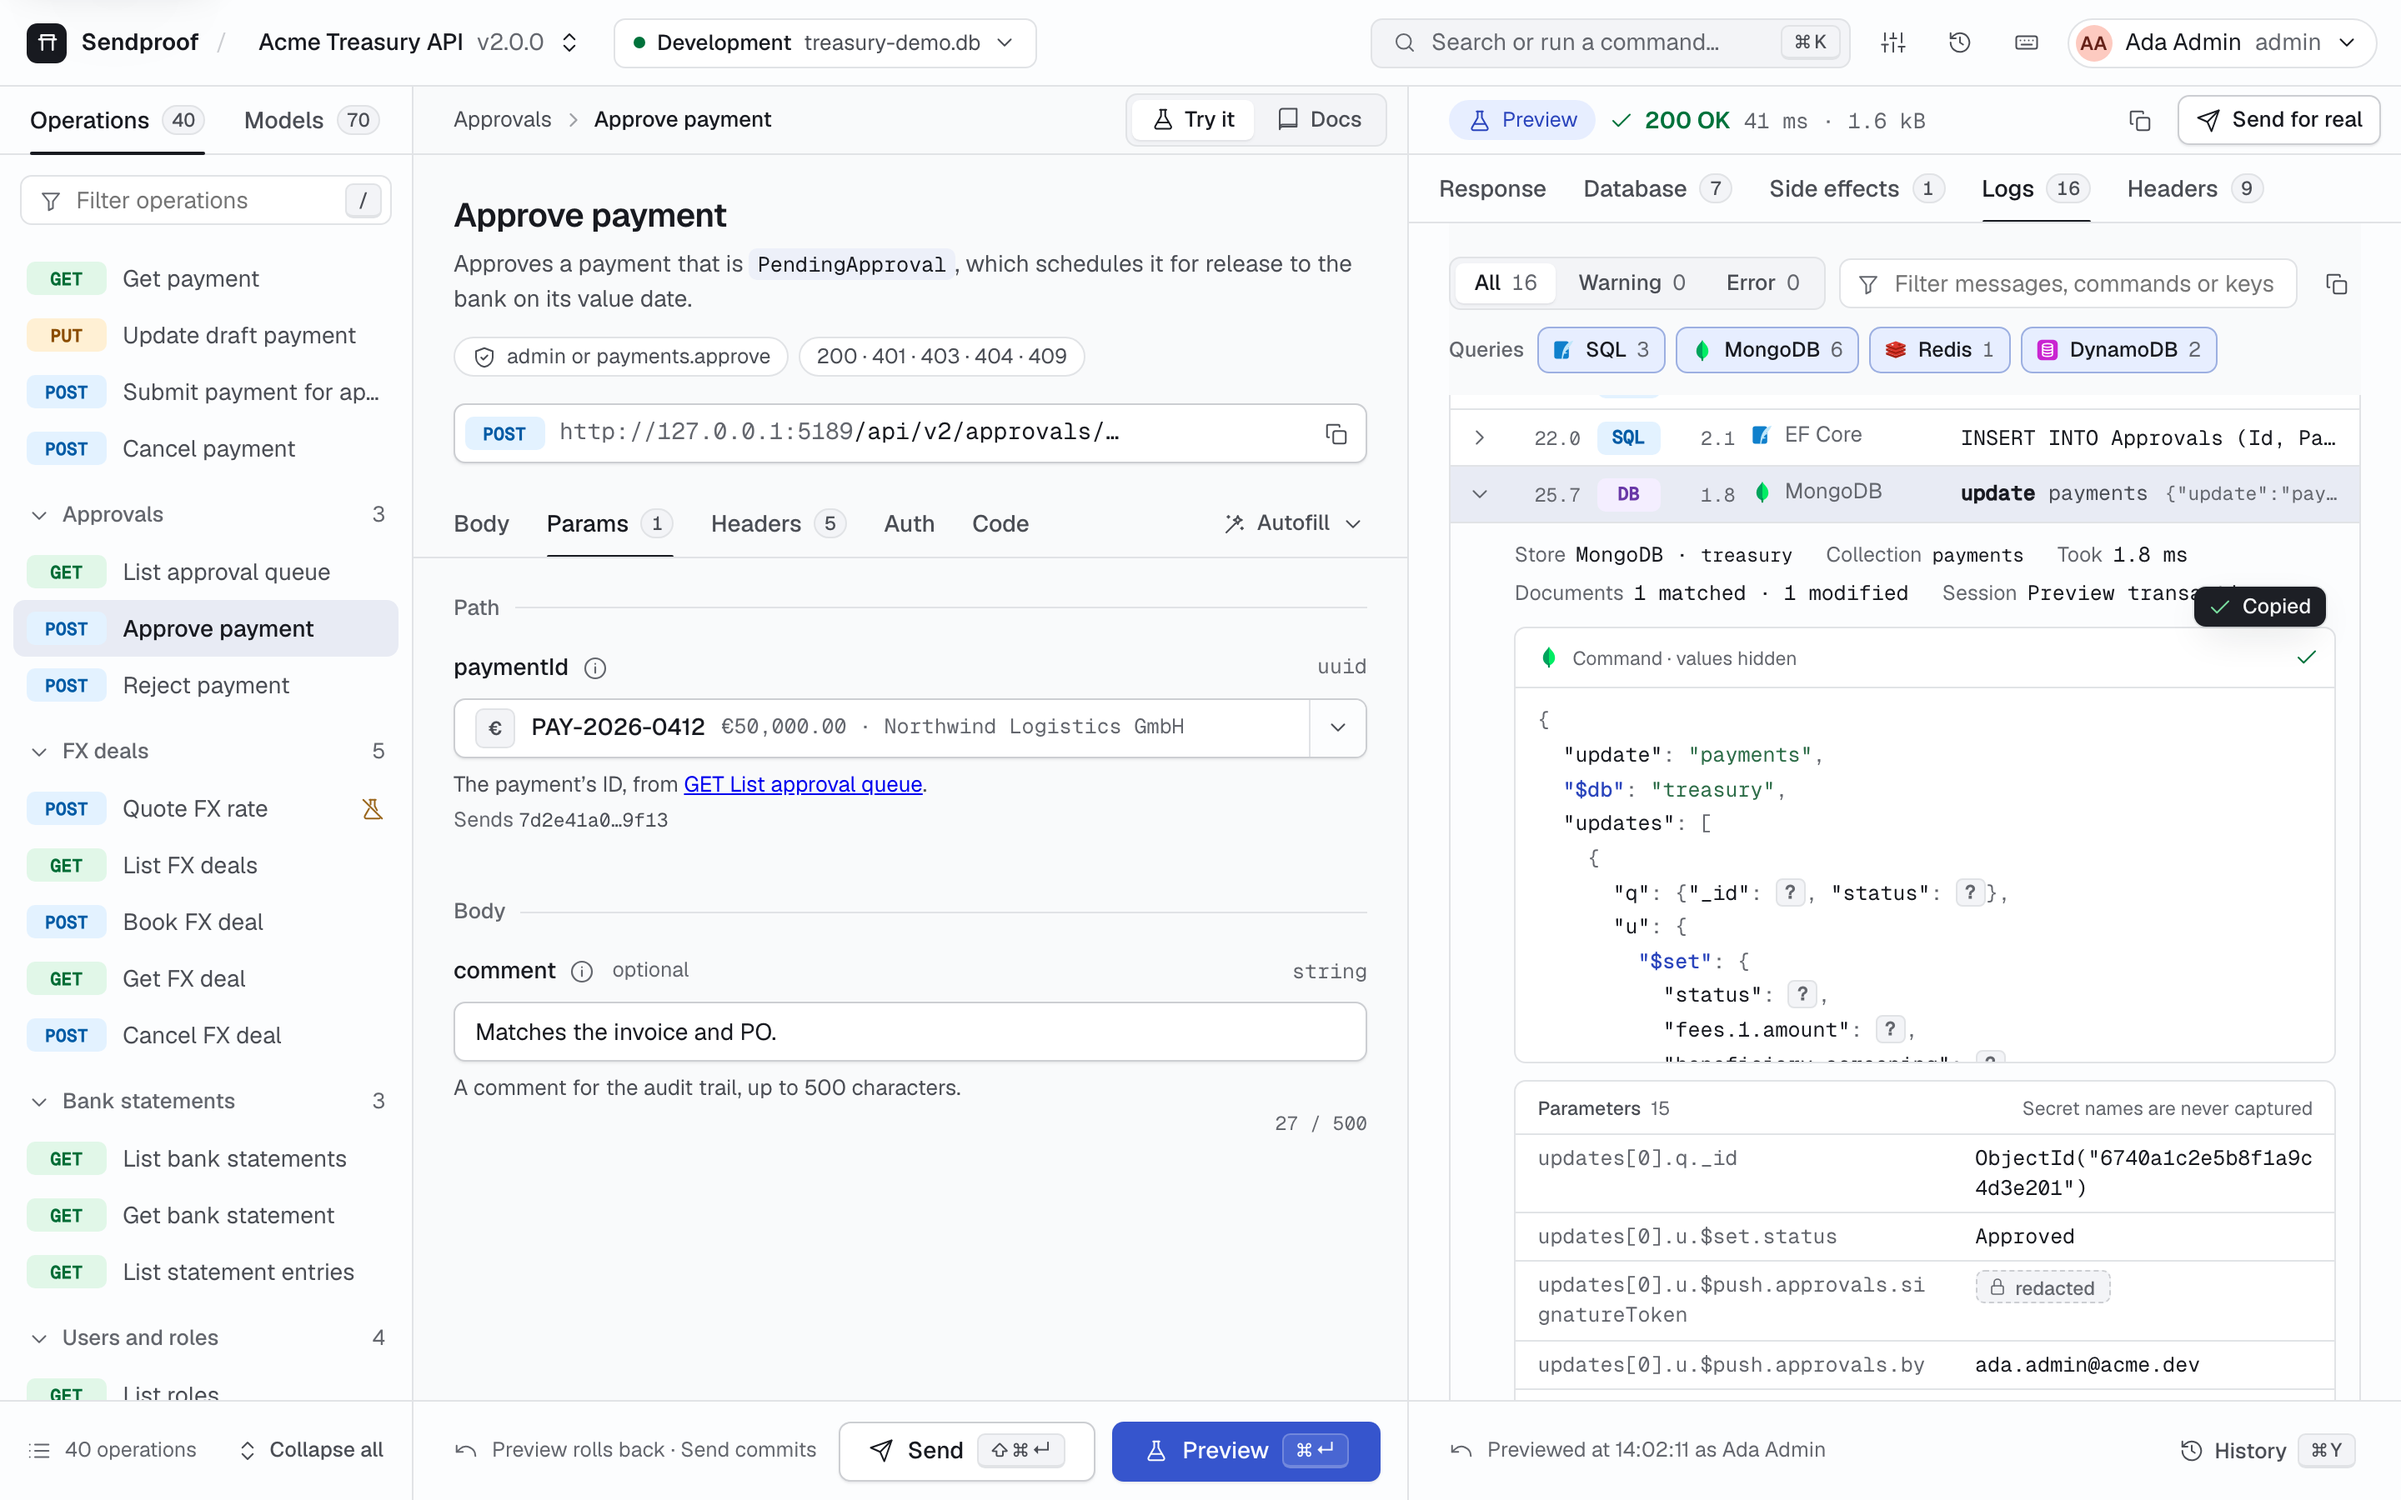
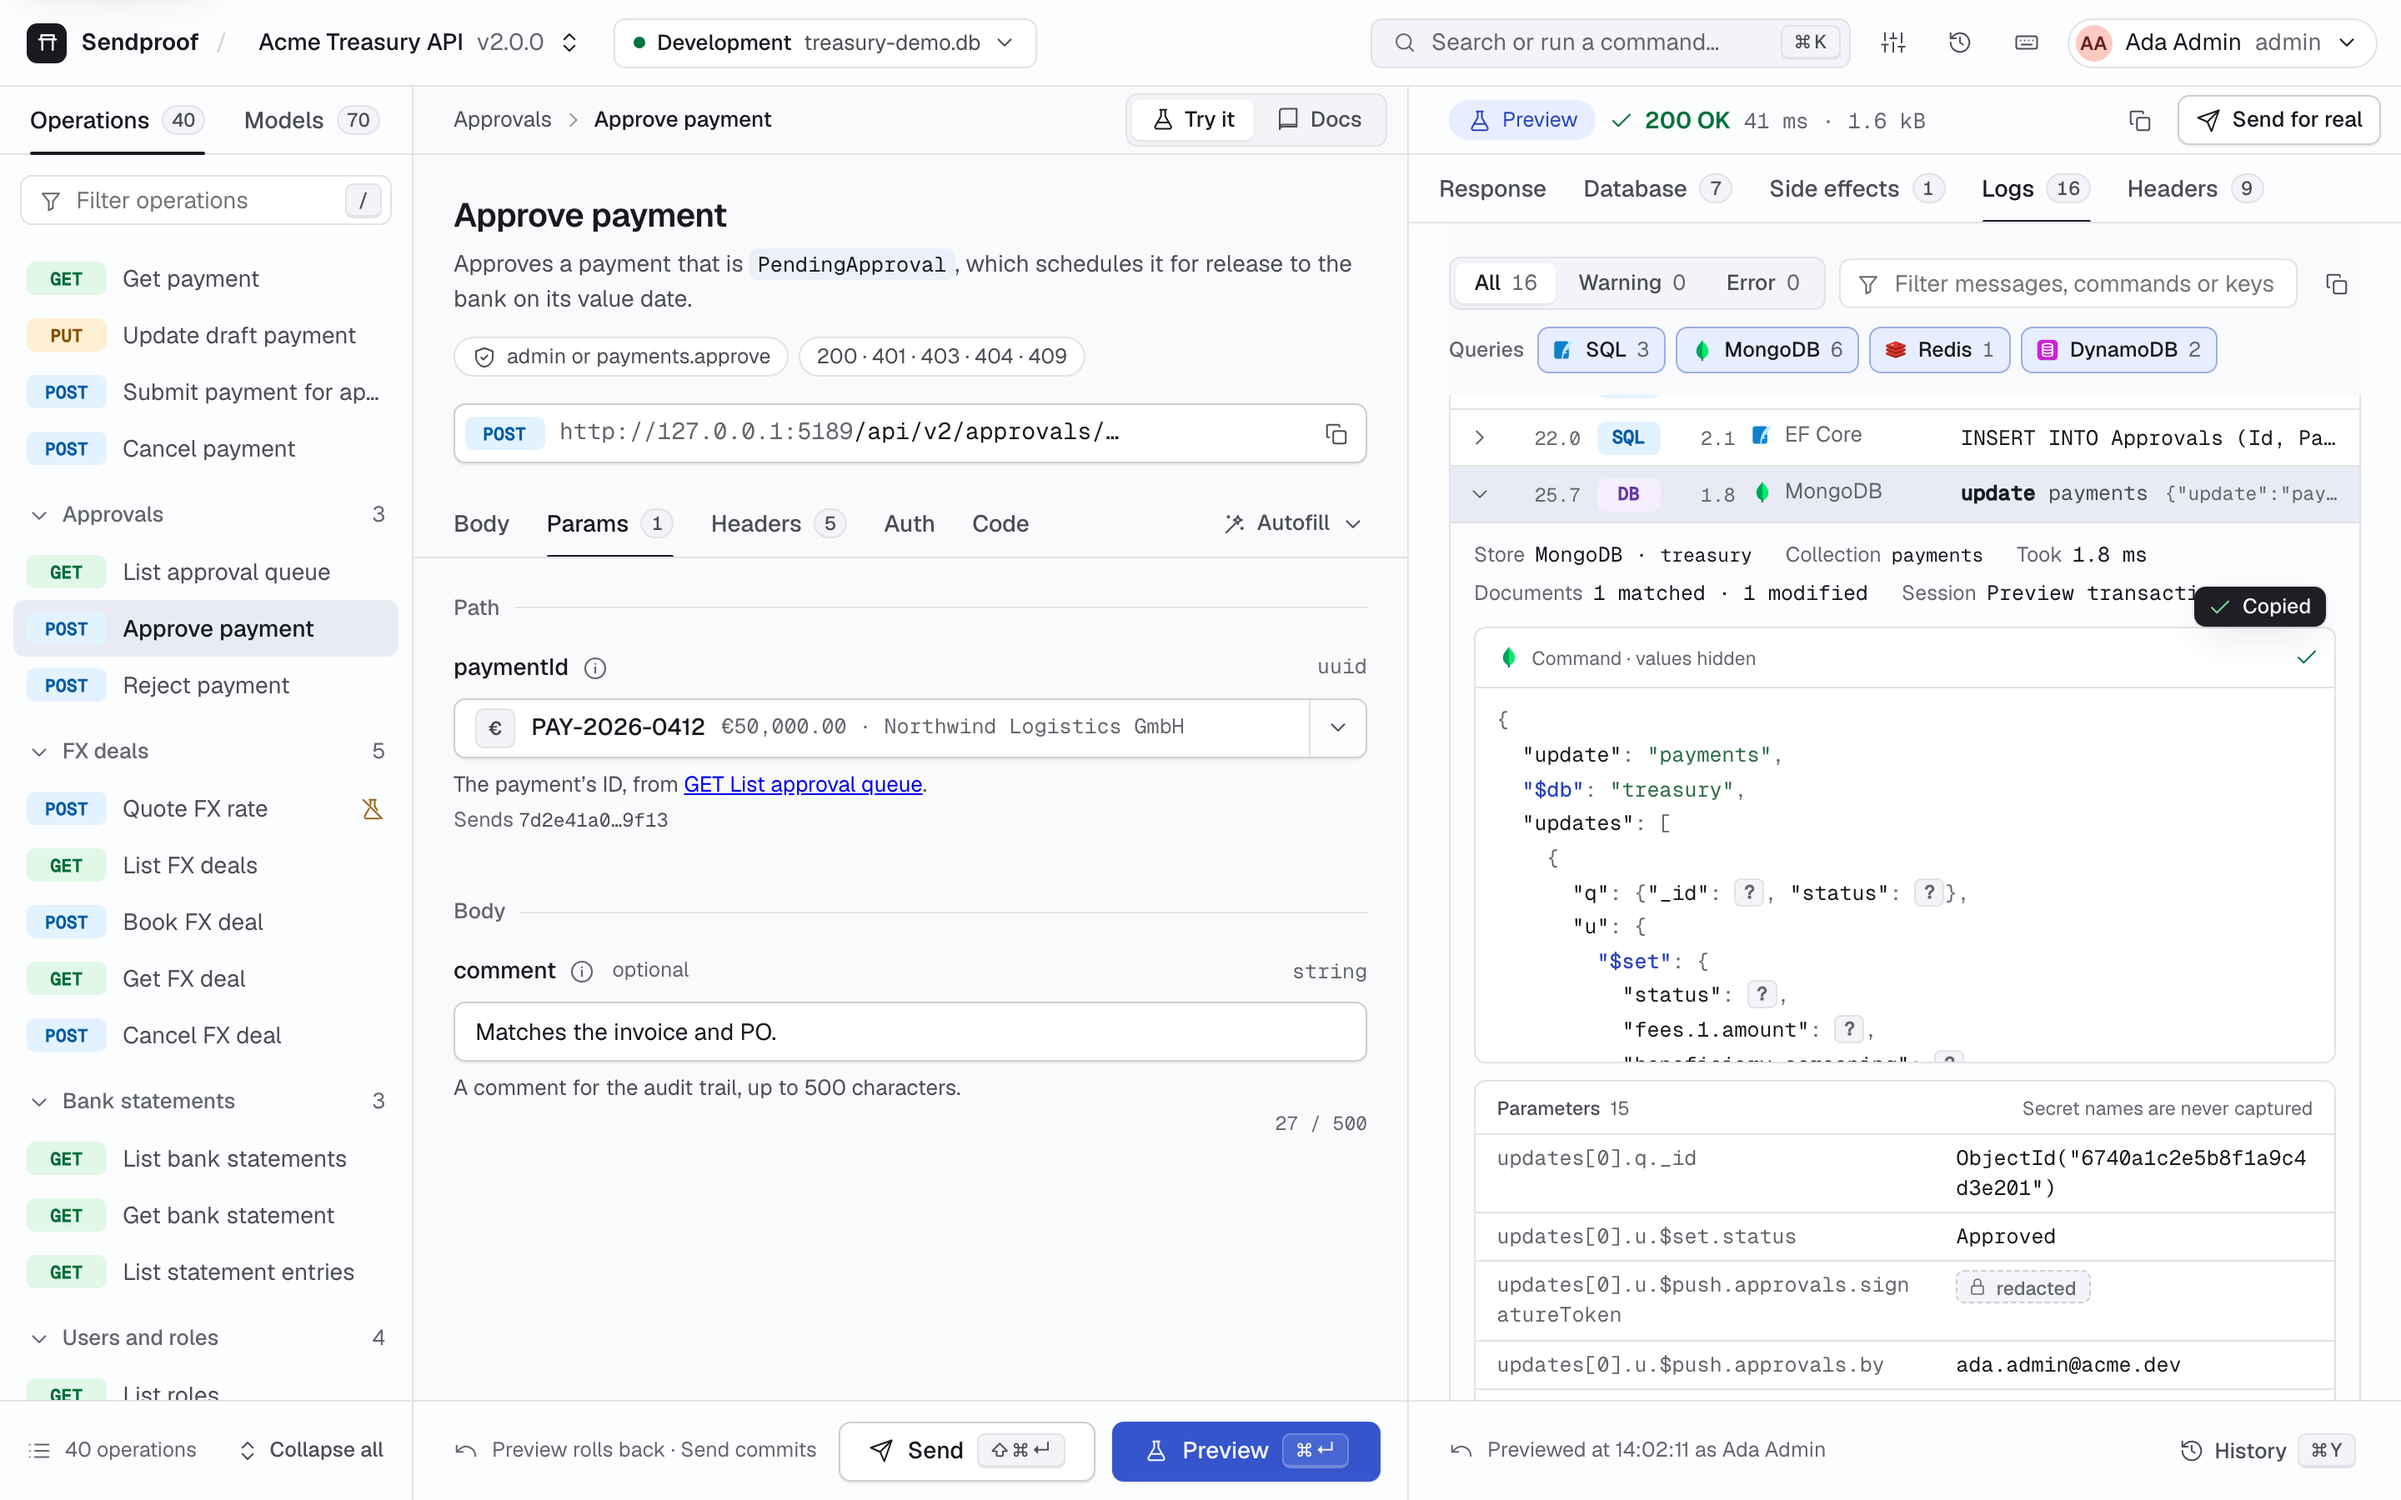
Drop the left inset on expanded log entries
The expanded detail now lines up with the log rows' own edges instead of
starting 2.4rem in, in the UI, the mocks and the Go embedded copy.

diff --git a/adapters/go/internal/ui/dist/views.css b/adapters/go/internal/ui/dist/views.css
@@ -124,7 +124,7 @@
 .lvl-sql .lvl { color: var(--post); background: var(--post-bg); }
 .log-row.is-open { background: var(--selected); }
 .prop { font: 500 var(--fs-sm)/1 var(--mono); color: var(--accent-text); }
-.log-detail { padding: 0.65rem 0.875rem 0.875rem 2.4rem; border-block-start: 1px solid var(--line); background: var(--panel); }
+.log-detail { padding: 0.65rem 0.875rem 0.875rem; border-block-start: 1px solid var(--line); background: var(--panel); }
 .sql-wrap { border-radius: var(--r); border: 1px solid var(--line); background: var(--raised); }
 .sql-bar { display: flex; align-items: center; gap: 0.5rem; padding-inline: 0.8rem 0.25rem; min-block-size: 2.25rem; border-block-end: 1px solid var(--line); font-size: var(--fs-xs); color: var(--text-3); }
 .sql { margin: 0; padding: 0.6rem 0.8rem; font: 400 var(--fs-sm)/1.6 var(--mono); white-space: pre; overflow-x: auto; }

diff --git a/mocks/views.css b/mocks/views.css
@@ -124,7 +124,7 @@
 .lvl-sql .lvl { color: var(--post); background: var(--post-bg); }
 .log-row.is-open { background: var(--selected); }
 .prop { font: 500 var(--fs-sm)/1 var(--mono); color: var(--accent-text); }
-.log-detail { padding: 0.65rem 0.875rem 0.875rem 2.4rem; border-block-start: 1px solid var(--line); background: var(--panel); }
+.log-detail { padding: 0.65rem 0.875rem 0.875rem; border-block-start: 1px solid var(--line); background: var(--panel); }
 .sql-wrap { border-radius: var(--r); border: 1px solid var(--line); background: var(--raised); }
 .sql-bar { display: flex; align-items: center; gap: 0.5rem; padding-inline: 0.8rem 0.25rem; min-block-size: 2.25rem; border-block-end: 1px solid var(--line); font-size: var(--fs-xs); color: var(--text-3); }
 .sql { margin: 0; padding: 0.6rem 0.8rem; font: 400 var(--fs-sm)/1.6 var(--mono); white-space: pre; overflow-x: auto; }

diff --git a/ui/views.css b/ui/views.css
@@ -124,7 +124,7 @@
 .lvl-sql .lvl { color: var(--post); background: var(--post-bg); }
 .log-row.is-open { background: var(--selected); }
 .prop { font: 500 var(--fs-sm)/1 var(--mono); color: var(--accent-text); }
-.log-detail { padding: 0.65rem 0.875rem 0.875rem 2.4rem; border-block-start: 1px solid var(--line); background: var(--panel); }
+.log-detail { padding: 0.65rem 0.875rem 0.875rem; border-block-start: 1px solid var(--line); background: var(--panel); }
 .sql-wrap { border-radius: var(--r); border: 1px solid var(--line); background: var(--raised); }
 .sql-bar { display: flex; align-items: center; gap: 0.5rem; padding-inline: 0.8rem 0.25rem; min-block-size: 2.25rem; border-block-end: 1px solid var(--line); font-size: var(--fs-xs); color: var(--text-3); }
 .sql { margin: 0; padding: 0.6rem 0.8rem; font: 400 var(--fs-sm)/1.6 var(--mono); white-space: pre; overflow-x: auto; }

diff --git a/adapters/go/internal/ui/dist/app.css b/adapters/go/internal/ui/dist/app.css
@@ -135,7 +135,7 @@ button.expect-row { inline-size: 100%; border: 0; background: none; text-align: 
 @container result (max-width: 25rem) {
   .fx-head .tag { max-inline-size: 40%; block-size: auto; white-space: normal; }
   .log-bar .segmented { flex-wrap: wrap; }
-  .log-detail { padding-inline-start: 0.75rem; }
+  .log-detail { padding-inline: 0.75rem; }
   .params { grid-template-columns: fit-content(40%) minmax(0, 1fr); }
   .collapsed-section .title { white-space: normal; }
   .collapsed-section .faint { text-align: end; }

diff --git a/ui/app.css b/ui/app.css
@@ -135,7 +135,7 @@ button.expect-row { inline-size: 100%; border: 0; background: none; text-align: 
 @container result (max-width: 25rem) {
   .fx-head .tag { max-inline-size: 40%; block-size: auto; white-space: normal; }
   .log-bar .segmented { flex-wrap: wrap; }
-  .log-detail { padding-inline-start: 0.75rem; }
+  .log-detail { padding-inline: 0.75rem; }
   .params { grid-template-columns: fit-content(40%) minmax(0, 1fr); }
   .collapsed-section .title { white-space: normal; }
   .collapsed-section .faint { text-align: end; }
